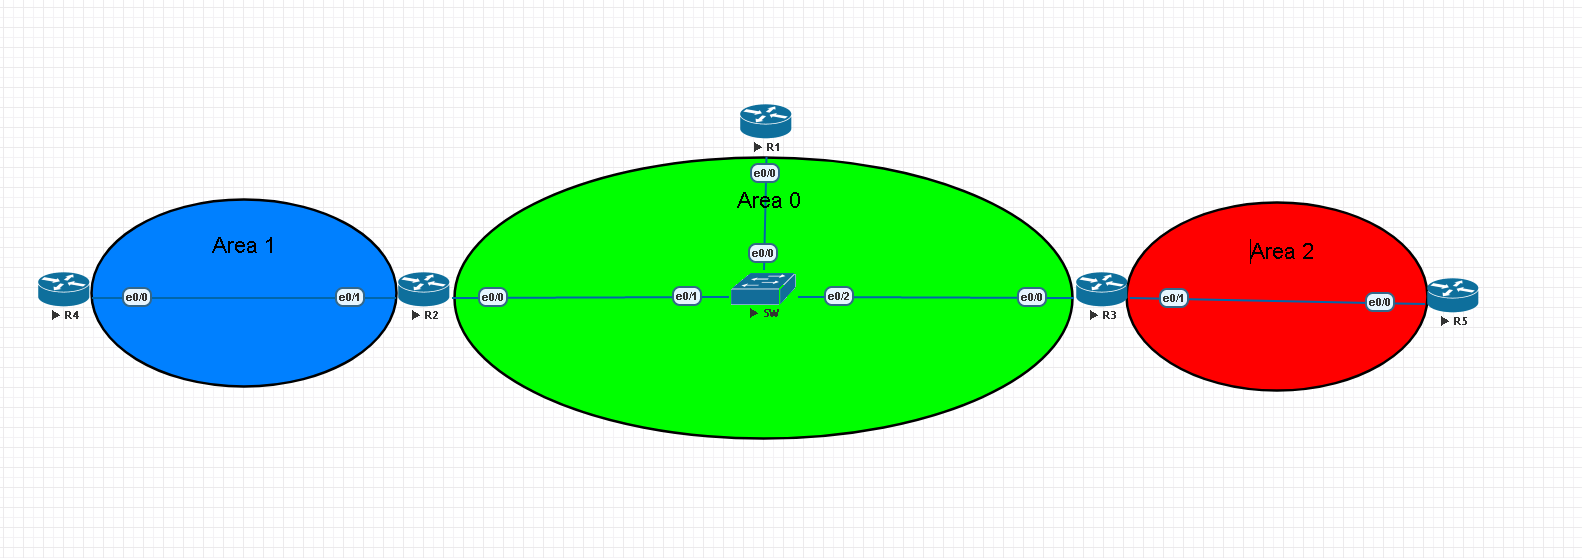
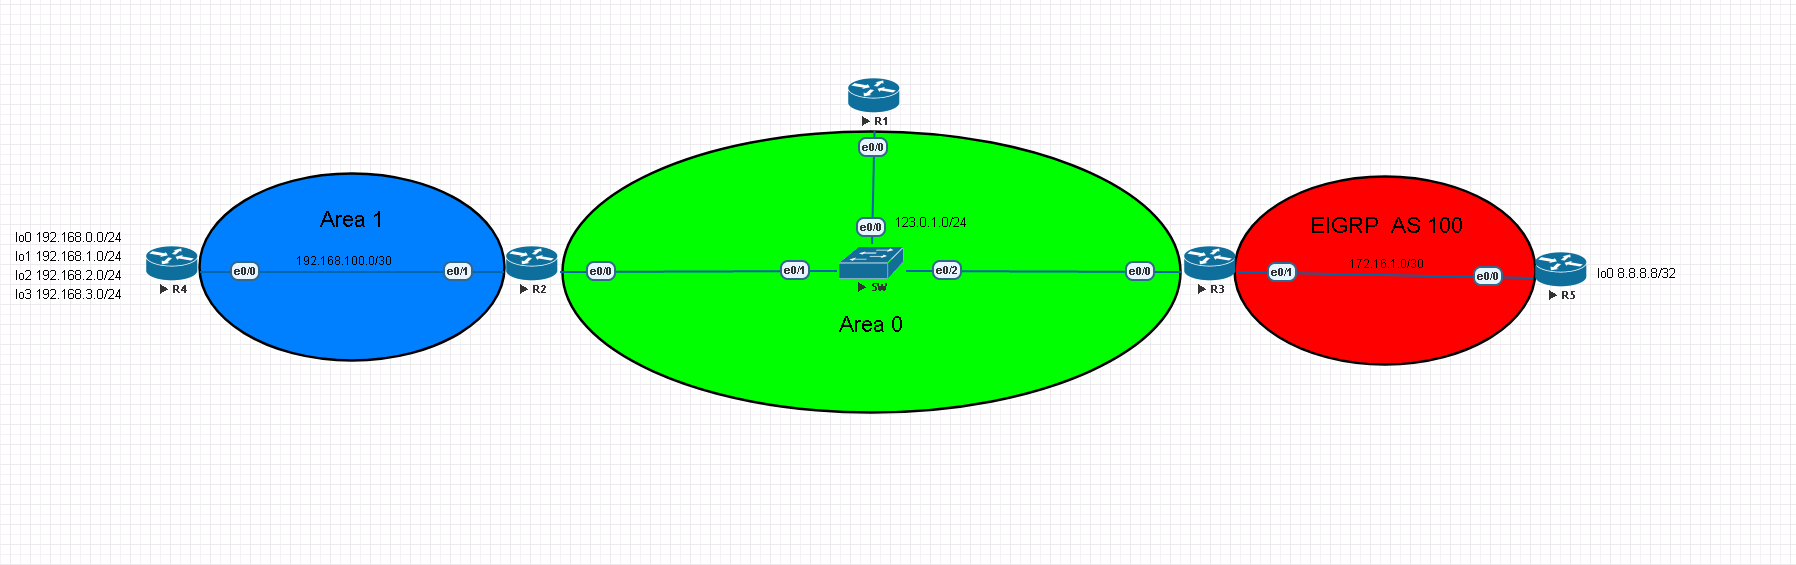
Changed content of OSPF

Changed region(s): [[0.0, 0.1219, 0.9602, 0.7921]]

diff --git a/Equipment-operation/Cisco/Router/OSPF/4.Optimization.md b/Equipment-operation/Cisco/Router/OSPF/4.Optimization.md
@@ -53,3 +53,29 @@ router ospf 1
     no passive-interface e0/0
     no passive-interface e0/1
 ```
+
+## Route Summarization ## 
+
+![](Image/Topology1.png)
+
+路由匯總可以將多條路由合併成一條路由，減少LSA的更新，只能在ABR或ASBR進行路由匯總，以上圖為例，要在ABR也就是R2將下面四條/24的路由匯總成一條/22的路由
+
+|Network|Subnet Mask|
+|---|---|
+|192.168.0.0|255.255.255.0|
+|192.168.1.0|255.255.255.0|
+|192.168.2.0|255.255.255.0|
+|192.168.3.0|255.255.255.0|
+
+```bash
+area 0 range 192.168.0.0 255.255.252.0 
+```
+
+從R1使用show ip route ospf查看可以看到路由已經匯總成一條192.168.20.0/22的路由
+
+![](Image/Route-summarization2.png)
+
+且從R2可以看到多了一條192.168.20.0/22指向Null0，這是為了防止路由迴圈，例如若是R4有一筆指向R2的預設路由，並將路由匯總成一條192.168.0.0/24，假設今天沒有192.168.3.0/24這條路由，那當R2傳送了一個封包目的地為192.168.3.1給R4時，R4並沒有這條路由，所以會往預設路由走，而R2又會將封包傳給R4，造成路由迴圈，所以當在ABR使用路由匯總時會自動產生一筆錄由指向null0
+
+![](Image/Route-summarization1.png)
+
